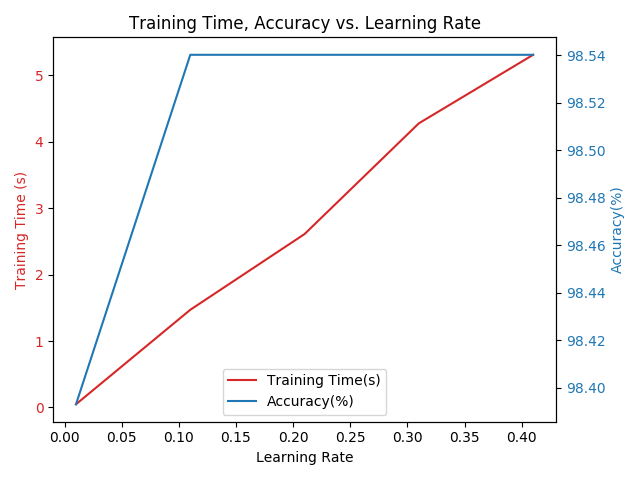
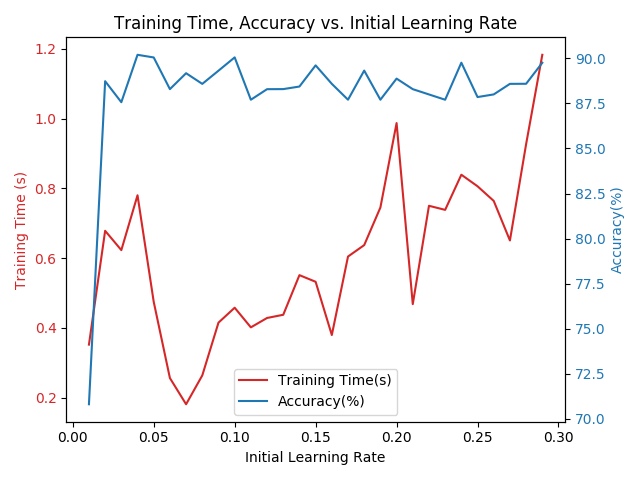
add lr readme content and more tests

diff --git a/MiniProject1/testLR.py b/MiniProject1/testLR.py
@@ -15,6 +15,8 @@ from tempfile import TemporaryFile
 from toolFunctions import evaluate_acc
 from toolFunctions import excludeSegment
 from toolFunctions import partition
+from toolFunctions import normalize
+from toolFunctions import pca
 
 # main(['list'])
 # main(['show', 'wheel'])
@@ -74,16 +76,6 @@ malignantClass = breastCancerFeature[rowsForMalignant, :]
 
 classArray = np.zeros(breastCancerArrayCleaned.shape[0])
 classArray[rowsForMalignant] = 1
-
-def normalize(X):
-    '''
-    normalize X
-    '''
-    X_clone = np.copy(X)
-    # normalize features
-    for i in range(X.shape[1]):
-        X_clone[:,i] = np.divide(X_clone[:,i] - np.min(X_clone[:,i]),np.max(X_clone[:,i]) - np.min(X_clone[:,i]))
-    return X_clone
 
 def kfoldLR(X,y,k,a = 0.08, epsilon = 1e-3, power = 1):
     '''
@@ -146,25 +138,24 @@ def kfoldLR(X,y,k,a = 0.08, epsilon = 1e-3, power = 1):
         print("K-fold validation yields average training time of %.2f s" % avgtt)
         # K-fold validation yields average accuracy of 73.61 %
         return np.array([avgacc,avgtt])
-
-
+'''
 # test initial learning rate
 # wine data
 learningRate = np.arange(0.01,0.3,0.01)
-resultWine2 = np.zeros((learningRate.shape[0],2))
+resultWine = np.zeros((learningRate.shape[0],2))
 for i, a in enumerate(learningRate):
-    resultWine2[i,:] = kfoldLR(wineFeatures,qualityBinary,5, a, 1e-3)
+    resultWine[i,:] = kfoldLR(wineFeatures,qualityBinary,5, a, 1e-3)
 outfile = TemporaryFile()
-np.save(outfile, resultWine2)
-np.save('resultWine',resultWine2)
+np.save(outfile, resultWine)
+np.save('resultWine',resultWine)
 
 # breast cancer data
-resultBC2 = np.zeros((learningRate.shape[0],2))
+resultBC = np.zeros((learningRate.shape[0],2))
 for i, a in enumerate(learningRate):
-    resultBC2[i,:] = kfoldLR(breastCancerFeature,classArray,5, a, 1e-3)
+    resultBC[i,:] = kfoldLR(breastCancerFeature,classArray,5, a, 1e-3)
 outfile = TemporaryFile()
-np.save(outfile, resultBC2)
-np.save('resultBC2',resultBC2)
+np.save(outfile, resultBC)
+np.save('resultBC',resultBC)
 
 # test decay rate
 # wine data
@@ -179,16 +170,29 @@ for i, p in enumerate(power):
     resultBCPower[i,:] = kfoldLR(breastCancerFeature,classArray,5,0.1,1e-3,p)
 np.save('resultBCPower',resultBCPower)
 
-print(classArray)
-
-
-# test wine data feature
+# test wine data feature: drop one feature
 resultWineFeatures = np.zeros((wineFeatures.shape[1],2))
 for colToDelete in range(wineFeatures.shape[1]):
     wineFeatures_ = np.delete(wineFeatures, colToDelete, axis = 1)
-#     print(wineFeatures.shape)
-#     print(wineFeatures_.shape)
-    resultWineFeatures = kfoldLR(wineFeatures_,qualityBinary,5, 0.08, 1e-3)
-# np.save('resultWineFeatures',resultWineFeatures)
+    resultWineFeatures[colToDelete] = kfoldLR(wineFeatures_,qualityBinary,5, 0.08, 1e-3)
+np.save('resultWineFeatures',resultWineFeatures)
 
-# kfoldLR(breastCancerFeature,classArray,5,0.08,1e-3)
+# test wine data feature: PCA
+kfoldLR(pca(normalize(wineFeatures)),qualityBinary,5,0.08,1e-3)
+wineFeatures_ = np.delete(wineFeatures,[5,6], axis = 1)
+kfoldLR(wineFeatures_,qualityBinary,5,0.08,1e-3)
+
+
+# add feature = sqaure of one of the columns
+resultWineAddFeature = np.zeros((wineFeatures.shape[1],2))
+for colToPower in range(wineFeatures.shape[1]):
+    wineFeatures_ = np.c_[wineFeatures, np.power(wineFeatures[:,colToPower],2)]
+    resultWineAddFeature[colToPower] = kfoldLR(wineFeatures_,qualityBinary,5, 0.08, 1e-3)
+np.save('resultWineAddFeature2',resultWineAddFeature)
+'''
+print("---------Train on All Data---------")
+kfoldLR(wineFeatures, qualityBinary, 1)
+kfoldLR(breastCancerFeature, classArray, 1)
+print("---------K-fold validation---------")
+kfoldLR(wineFeatures,qualityBinary,5,0.08,1e-3)
+kfoldLR(breastCancerFeature,classArray,5,0.08,1e-3)

diff --git a/MiniProject1/plotLR.py b/MiniProject1/plotLR.py
@@ -100,23 +100,36 @@ plt.show()
 
 
 '''
-colToDelete = np.arang(1,12,1)
+colToDelete = np.arange(1,12,1)
 result = np.load('resultWineFeatures.npy')
 
+
+print(result)
 fig,ax1 = plt.subplots()
-ax1.set_title("Training Time, Accuracy vs. Initial Learning Rate")
-color = 'tab:red'
-ax1.set_xlabel('Feature')
-ax1.set_ylabel('Training Time (s)', color=color)
-ttline, = ax1.plot(colToDelete,result[:,1], color = color)
+color = 'tab:blue'
+ax1.set_xlabel('Index of Feature Dropped n ')
+ax1.set_ylabel('Accuracy(%)', color=color)  # we already handled the x-label with ax1
+accline, = ax1.plot(colToDelete,result[:,0],color = color)
+avgline, = ax1.plot(colToDelete, np.full(colToDelete.shape,73.92), color = color, linestyle='--')
 ax1.tick_params(axis='y', labelcolor=color)
 
-ax2 = ax1.twinx()  # instantiate a second axes that shares the same x-axis
+fig.tight_layout()  # otherwise the right y-label is slightly clipped
+lg = ax1.legend([avgline,accline],['Accuracy(%)','Accuracy after dropping a feature X_n(%)'],loc='lower center')
+plt.show()
+
+
+
+colToPower = np.arange(1,12,1)
+result = np.load('resultWineAddFeature.npy')
+print(result)
+fig,ax1 = plt.subplots()
 color = 'tab:blue'
-ax2.set_ylabel('Accuracy(%)', color=color)  # we already handled the x-label with ax1
-accline, = ax2.plot(colToDelete,result[:,0],color = color)
-ax2.tick_params(axis='y', labelcolor=color)
+ax1.set_xlabel('Index of Feature Sqaured n')
+ax1.set_ylabel('Accuracy(%)', color=color)  # we already handled the x-label with ax1
+accline, = ax1.plot(colToPower,result[:,0],color = color)
+avgline, = ax1.plot(colToPower, np.full(colToDelete.shape,73.92), color = color, linestyle='--')
+ax1.tick_params(axis='y', labelcolor=color)
 
 fig.tight_layout()  # otherwise the right y-label is slightly clipped
-# lg = ax1.legend([ttline,accline],['Training Time(s)','Accuracy(%)'],loc='lower center')
+lg = ax1.legend([avgline,accline],['Accuracy(%)','Accuracy after adding a feature X_n^2(%)'],loc='lower center')
 plt.show()

diff --git a/MiniProject1/toolFunctions.py b/MiniProject1/toolFunctions.py
@@ -1,6 +1,38 @@
 import math
 import numpy as np
 
+
+def normalize(X):
+    '''
+    normalize X
+    '''
+    X_clone = np.copy(X)
+    # normalize features
+    for i in range(X.shape[1]):
+        X_clone[:,i] = np.divide(X_clone[:,i] - np.min(X_clone[:,i]),np.max(X_clone[:,i]) - np.min(X_clone[:,i]))
+    return X_clone
+
+
+# PCA
+def pca(A):
+    # calculate the mean of each column
+    M = np.mean(A.T, axis=1)
+    # print(M)
+    # center columns by subtracting column means
+    C = A - M
+    # print(C)
+    # calculate covariance matrix of centered matrix
+    V = np.cov(C.T)
+    # print(V)
+    # eigendecomposition of covariance matrix
+    values, vectors = np.linalg.eig(V)
+    # print(vectors)
+    # print(values)
+    # project data
+    P = vectors.T.dot(C.T)
+    # print(P.T.shape)
+    return P.T
+
 def evaluate_acc(y, y_head):
     '''
     :param y: true class

diff --git a/MiniProject1/main.py b/MiniProject1/main.py
@@ -14,7 +14,8 @@ from classification import LDA
 from toolFunctions import evaluate_acc
 from toolFunctions import excludeSegment
 from toolFunctions import partition
-
+from toolFunctions import normalize
+from toolFunctions import pca
 
 # main(['list'])
 # main(['show', 'wheel'])
@@ -141,8 +142,11 @@ def KfoldLDA(X, y, k):
         print("K-fold validation yields average training time of %.2f s" % avgtt)
         return np.array([avgacc, avgtt])
 
+print("---------Train on All Data---------")
 KfoldLDA(breastCancerFeature, classArray, 1)
 KfoldLDA(wineFeatures, qualityBinary, 1)
-print("---------")
+print("---------K-fold validation---------")
 KfoldLDA(breastCancerFeature, classArray, 5)
 KfoldLDA(wineFeatures, qualityBinary, 5)
+# KfoldLDA(pca(breastCancerFeature), classArray, 5)
+# KfoldLDA(pca(normalize(wineFeatures)), qualityBinary, 5)

diff --git a/MiniProject1/README.md b/MiniProject1/README.md
@@ -44,7 +44,18 @@ Note that those commands only works if you already have Python and pip configure
 ### Project structure
 
 #### LDA files 
-The LDA model was being implemented in the file classification.py, class LDA. The evaluate_acc and k-fold cross validation of LDA model for both datasets were being implemented in the file main.py. You can execute the main.py file by the follwing command after have all prerequisite libraries set up. 
+The LDA model was being implemented in the file `classification.py`, class LDA. The k-fold cross validation of LDA model for both datasets were being implemented in the file `main.py`. You can execute the main.py file by the follwing command after have all prerequisite libraries set up. 
 ```
 python3 main.py
 ```
+
+#### Logistic Regression files 
+The logistic regression model was being implemented in the file `classification.py`, class LDA. The k-fold cross validation of LDA model for both datasets were being implemented in the file main.py. You can execute the `testLR.py` file by the follwing command after have all prerequisite libraries set up. 
+```
+python3 testLR.py
+```
+
+#### Others
+`plotLR.py`: contains script to create the plot for logistic regression in the report 
+`classification.py`: contains the logisitic regression and LDA implementation
+`toolFunctions.py`: contains helper function including the `evaluate_acc()`, and `normalize()`, and helper methods for kfold validation: `partition()` and `excludeSegment()`
